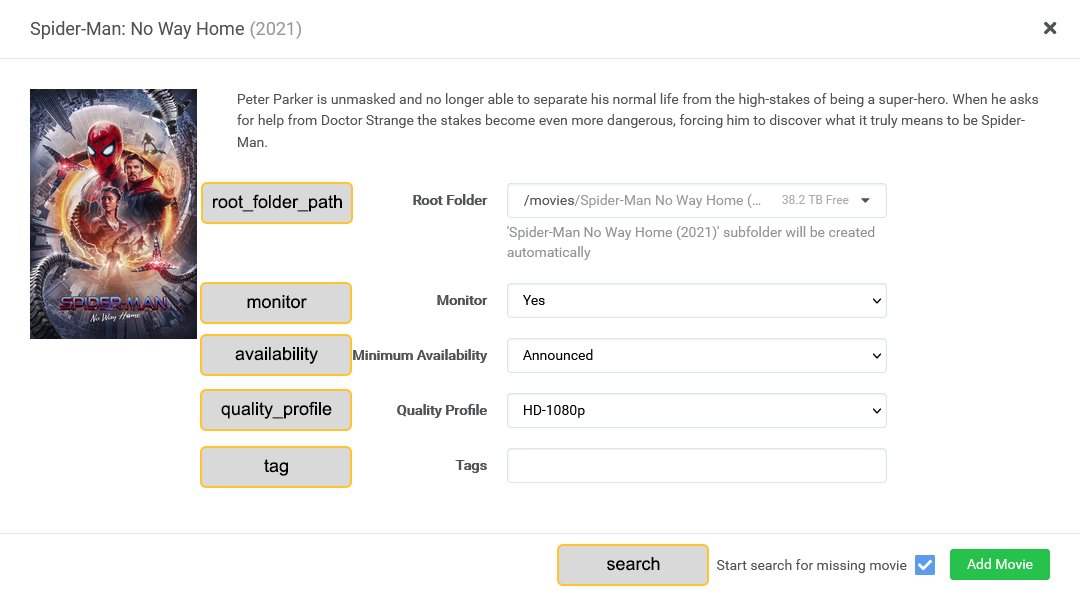
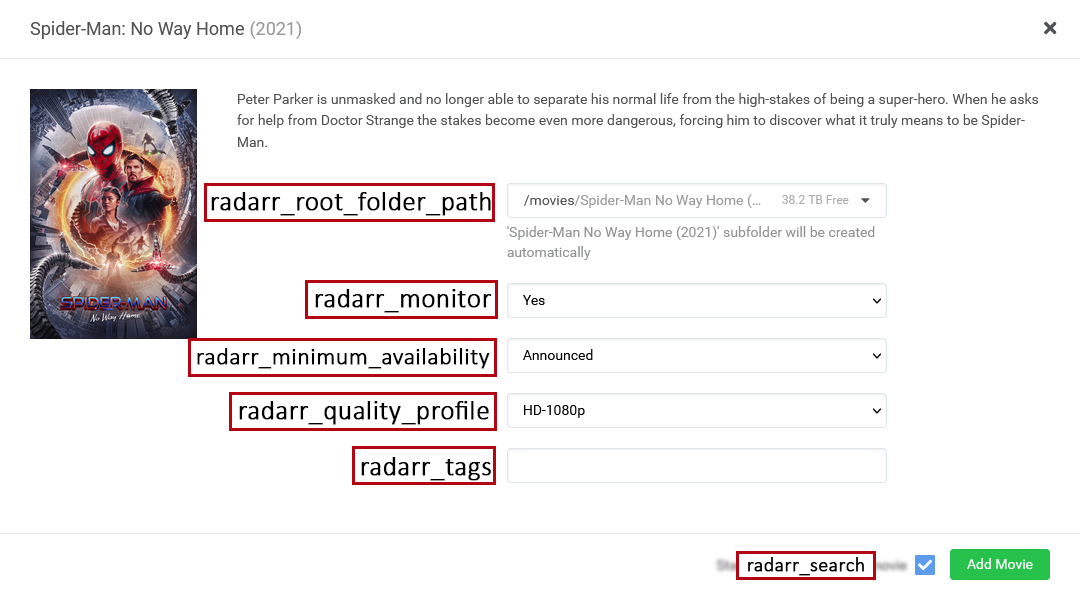
Standardize ARR definition setting names (#3681)

Changed region(s): [[0.1528, 0.4538, 0.4583, 0.8471], [0.4889, 0.9076, 0.8556, 0.9983], [0.1833, 0.3025, 0.4583, 0.3933]]

diff --git a/modules/builder.py b/modules/builder.py
@@ -303,11 +303,15 @@ radarr_details = [
     "radarr_upgrade_existing",
     "radarr_monitor_existing",
     "radarr_folder",
+    "radarr_root_folder_path",
     "radarr_monitor",
     "radarr_search",
     "radarr_availability",
+    "radarr_minimum_availability",
     "radarr_quality",
+    "radarr_quality_profile",
     "radarr_tag",
+    "radarr_tags",
     "item_radarr_tag",
     "radarr_ignore_cache",
 ]
@@ -317,14 +321,20 @@ sonarr_details = [
     "sonarr_upgrade_existing",
     "sonarr_monitor_existing",
     "sonarr_folder",
+    "sonarr_root_folder_path",
     "sonarr_monitor",
     "sonarr_language",
+    "sonarr_language_profile",
     "sonarr_series",
+    "sonarr_series_type",
     "sonarr_quality",
+    "sonarr_quality_profile",
     "sonarr_season",
+    "sonarr_season_folder",
     "sonarr_search",
     "sonarr_cutoff_search",
     "sonarr_tag",
+    "sonarr_tags",
     "item_sonarr_tag",
     "sonarr_ignore_cache",
 ]
@@ -2145,16 +2155,16 @@ class CollectionBuilder:
             "radarr_ignore_cache",
         ]:
             self.radarr_details[method_name[7:]] = util.parse(self.Type, method_name, method_data, datatype="bool")
-        elif method_name == "radarr_folder":
+        elif method_name in ["radarr_folder", "radarr_root_folder_path"]:
             self.radarr_details["folder"] = method_data
-        elif method_name == "radarr_availability":
+        elif method_name in ["radarr_availability", "radarr_minimum_availability"]:
             if str(method_data).lower() in radarr.availability_translation:
                 self.radarr_details["availability"] = str(method_data).lower()
             else:
                 raise BuilderValidationError(f"{self.Type} Error: {method_name} attribute must be either announced, cinemas, released or db")
-        elif method_name == "radarr_quality":
+        elif method_name in ["radarr_quality", "radarr_quality_profile"]:
             self.radarr_details["quality"] = method_data
-        elif method_name == "radarr_tag":
+        elif method_name in ["radarr_tag", "radarr_tags"]:
             self.radarr_details["tag"] = util.get_list(method_data, lower=True)
         elif method_name == "radarr_taglist":
             self.builders.append((method_name, util.get_list(method_data, lower=True, return_none=False)))
@@ -2167,25 +2177,30 @@ class CollectionBuilder:
             "sonarr_add_existing",
             "sonarr_upgrade_existing",
             "sonarr_monitor_existing",
-            "sonarr_season",
             "sonarr_search",
             "sonarr_cutoff_search",
             "sonarr_ignore_cache",
         ]:
             self.sonarr_details[method_name[7:]] = util.parse(self.Type, method_name, method_data, datatype="bool")
-        elif method_name in ["sonarr_folder", "sonarr_quality", "sonarr_language"]:
-            self.sonarr_details[method_name[7:]] = method_data
+        elif method_name in ["sonarr_season", "sonarr_season_folder"]:
+            self.sonarr_details["season"] = method_data
+        elif method_name in ["sonarr_folder", "sonarr_root_folder_path"]:
+            self.sonarr_details["folder"] = method_data
+        elif method_name in ["sonarr_quality", "sonarr_quality_profile"]:
+            self.sonarr_details["quality"] = method_data
+        elif method_name in ["sonarr_language", "sonarr_language_profile"]:
+            self.sonarr_details["language"] = method_data
         elif method_name == "sonarr_monitor":
             if str(method_data).lower() in sonarr.monitor_translation:
                 self.sonarr_details["monitor"] = str(method_data).lower()
             else:
                 raise Failed(f"{self.Type} Error: {method_name} attribute must be either all, future, missing, existing, pilot, first, latest or none")
-        elif method_name == "sonarr_series":
+        elif method_name in ["sonarr_series", "sonarr_series_type"]:
             if str(method_data).lower() in sonarr.series_types:
                 self.sonarr_details["series"] = str(method_data).lower()
             else:
                 raise Failed(f"{self.Type} Error: {method_name} attribute must be either standard, daily, or anime")
-        elif method_name == "sonarr_tag":
+        elif method_name in ["sonarr_tag", "sonarr_tags"]:
             self.sonarr_details["tag"] = util.get_list(method_data, lower=True)
         elif method_name == "sonarr_taglist":
             self.builders.append((method_name, util.get_list(method_data, lower=True, return_none=False)))

diff --git a/docs/files/arr.md b/docs/files/arr.md
@@ -9,10 +9,14 @@ tags:
   - radarr_monitor_existing
   - radarr_ignore_cache
   - radarr_folder
+  - radarr_root_folder_path
   - radarr_monitor
   - radarr_availability
+  - radarr_minimum_availability
   - radarr_quality
+  - radarr_quality_profile
   - radarr_tag
+  - radarr_tags
   - radarr_search
   - item_radarr_tag
   - item_radarr_tag.remove
@@ -23,12 +27,18 @@ tags:
   - sonarr_monitor_existing
   - sonarr_ignore_cache
   - sonarr_folder
+  - sonarr_root_folder_path
   - sonarr_monitor
   - sonarr_quality
+  - sonarr_quality_profile
   - sonarr_language
+  - sonarr_language_profile
   - sonarr_series
+  - sonarr_series_type
   - sonarr_season
+  - sonarr_season_folder
   - sonarr_tag
+  - sonarr_tags
   - sonarr_search
   - sonarr_cutoff_search
   - item_sonarr_tag
@@ -48,11 +58,11 @@ All the following attributes can override the global/library [Radarr](../config/
 | `radarr_upgrade_existing` | **Description:** Override Radarr `upgrade_existing` attribute<br>**Values:** `true` or `false`                                                                                                                                                                    |
 | `radarr_monitor_existing` | **Description:** Override Radarr `monitor_existing` attribute<br>**Values:** `true` or `false`                                                                                                                                                                    |
 | `radarr_ignore_cache`     | **Description:** Override Radarr `ignore_cache` attribute<br>**Values:** `true` or `false`                                                                                                                                                                        |
-| `radarr_folder`           | **Description:** Override Radarr `root_folder_path` attribute<br>**Values:** Folder Path                                                                                                                                                                          |
+| `radarr_root_folder_path` | **Description:** Override Radarr `root_folder_path` attribute<br>**Values:** Folder Path                                                                                                                                                                          |
 | `radarr_monitor`          | **Description:** Override Radarr `monitor` attribute<br>**Values:** `true` or `false`                                                                                                                                                                             |
-| `radarr_availability`     | **Description:** Override Radarr `availability` attribute<br>**Values:** `announced`, `cinemas`, `released`, `db`                                                                                                                                                 |
-| `radarr_quality`          | **Description:** Override Radarr `quality_profile` attribute<br>**Values:** Radarr Quality Profile                                                                                                                                                                |
-| `radarr_tag`              | **Description:** Override Radarr `tag` attribute<br>**Values:** List :material-information-outline:{ data-tooltip data-tooltip-id="tippy-yaml-lists" } or comma-separated string of tags                                                                          |
+| `radarr_minimum_availability` | **Description:** Override Radarr `availability` attribute<br>**Values:** `announced`, `cinemas`, `released`, `db`                                                                                                                                             |
+| `radarr_quality_profile`  | **Description:** Override Radarr `quality_profile` attribute<br>**Values:** Radarr Quality Profile                                                                                                                                                                |
+| `radarr_tags`             | **Description:** Override Radarr `tag` attribute<br>**Values:** List :material-information-outline:{ data-tooltip data-tooltip-id="tippy-yaml-lists" } or comma-separated string of tags                                                                          |
 | `radarr_search`           | **Description:** Override Radarr `search` attribute<br>**Values:** `true` or `false`                                                                                                                                                                              |
 | `item_radarr_tag`         | **Description:** Used to append a tag in Radarr for every movie found by the builders that's in Radarr<br>**Values:** List :material-information-outline:{ data-tooltip data-tooltip-id="tippy-yaml-lists" } or comma-separated string of tags                    |
 | `item_radarr_tag.remove`  | **Description:** Used to remove existing tags in Radarr for every movie found by the builders that's in Radarr<br>**Values:** List :material-information-outline:{ data-tooltip data-tooltip-id="tippy-yaml-lists" } or comma-separated string of tags            |
@@ -69,13 +79,13 @@ All the following attributes can override the global/library [Sonarr](../config/
 | `sonarr_upgrade_existing` | **Description:** Override Sonarr `upgrade_existing` attribute<br>**Values:** `true` or `false`                                                                                                                                                                     |
 | `sonarr_monitor_existing` | **Description:** Override Sonarr `monitor_existing` attribute<br>**Values:** `true` or `false`                                                                                                                                                                     |
 | `sonarr_ignore_cache`     | **Description:** Override Sonarr `ignore_cache` attribute<br>**Values:** `true` or `false`                                                                                                                                                                         |
-| `sonarr_folder`           | **Description:** Override Sonarr `root_folder_path` attribute<br>**Values:** Folder Path                                                                                                                                                                           |
+| `sonarr_root_folder_path` | **Description:** Override Sonarr `root_folder_path` attribute<br>**Values:** Folder Path                                                                                                                                                                           |
 | `sonarr_monitor`          | **Description:** Override Sonarr `monitor` attribute<br>**Values:** `all`, `future`, `missing`, `existing`, `pilot`, `first`, `latest`, `none`                                                                                                                     |
-| `sonarr_quality`          | **Description:** Override Sonarr `quality_profile` attribute<br>**Values:** Sonarr Quality Profile                                                                                                                                                                 |
-| `sonarr_language`         | **Description:** Override Sonarr `language_profile` attribute<br>**Values:** Sonarr Language Profile                                                                                                                                                               |
-| `sonarr_series`           | **Description:** Override Sonarr `series_type` attribute<br>**Values:** `standard`, `daily`, `anime`                                                                                                                                                               |
-| `sonarr_season`           | **Description:** Override Sonarr `season_folder` attribute<br>**Values:** `true` or `false`                                                                                                                                                                        |
-| `sonarr_tag`              | **Description:** Override Sonarr `tag` attribute<br>**Values:** List :material-information-outline:{ data-tooltip data-tooltip-id="tippy-yaml-lists" } or comma-separated string of tags                                                                           |
+| `sonarr_quality_profile`  | **Description:** Override Sonarr `quality_profile` attribute<br>**Values:** Sonarr Quality Profile                                                                                                                                                                 |
+| `sonarr_language_profile` | **Description:** Override Sonarr `language_profile` attribute<br>**Values:** Sonarr Language Profile                                                                                                                                                               |
+| `sonarr_series_type`      | **Description:** Override Sonarr `series_type` attribute<br>**Values:** `standard`, `daily`, `anime`                                                                                                                                                               |
+| `sonarr_season_folder`    | **Description:** Override Sonarr `season_folder` attribute<br>**Values:** `true` or `false`                                                                                                                                                                        |
+| `sonarr_tags`             | **Description:** Override Sonarr `tag` attribute<br>**Values:** List :material-information-outline:{ data-tooltip data-tooltip-id="tippy-yaml-lists" } or comma-separated string of tags                                                                           |
 | `sonarr_search`           | **Description:** Override Sonarr `search` attribute<br>**Values:** `true` or `false`                                                                                                                                                                               |
 | `sonarr_cutoff_search`    | **Description:** Override Sonarr `cutoff_search` attribute<br>**Values:** `true` or `false`                                                                                                                                                                        |
 | `item_sonarr_tag`         | **Description:** Used to append a tag in Sonarr for every series found by the builders that's in Sonarr<br>**Values:** List :material-information-outline:{ data-tooltip data-tooltip-id="tippy-yaml-lists" } or comma-separated string of tags                    |
@@ -100,14 +110,14 @@ If your Radarr/Sonarr has different file system mappings from your Plex use `rad
 
 ### Radarr Add Settings
 
-When adding a movie in Radarr you get the screen below to set these options use `radarr_folder`, `radarr_monitor`,`radarr_availability`, `radarr_quality`, `radarr_tag`, and `radarr_search`.
+When adding a movie in Radarr you get the screen below to set these options use `radarr_root_folder_path`, `radarr_monitor`, `radarr_minimum_availability`, `radarr_quality_profile`, `radarr_tags`, and `radarr_search`.
 
 ![Radarr Details](../assets/images/files/radarr-settings.png)
 
 ### Sonarr Add Settings
 
-When adding a show in Sonarr you get the screen below to set these options use `sonarr_folder`, `sonarr_monitor`, `sonarr_quality`, `sonarr_language`, `sonarr_series`, 
-`sonarr_season`, `sonarr_tag`, `sonarr_search`, and `sonarr_cutoff_search`.
+When adding a show in Sonarr you get the screen below to set these options use `sonarr_root_folder_path`, `sonarr_monitor`, `sonarr_quality_profile`, `sonarr_language_profile`, `sonarr_series_type`,
+`sonarr_season_folder`, `sonarr_tags`, `sonarr_search`, and `sonarr_cutoff_search`.
 
 ![Sonarr Details](../assets/images/files/sonarr-settings.png)
 

diff --git a/CHANGELOG.md b/CHANGELOG.md
@@ -9,6 +9,7 @@ and this project adheres to [Semantic Versioning](https://semver.org/spec/v2.0.0
 
 ### Changed
 
+- Standardize collection-level Radarr and Sonarr definition setting names: `radarr_root_folder_path`, `radarr_minimum_availability`, `radarr_quality_profile`, `radarr_tags`, `sonarr_root_folder_path`, `sonarr_quality_profile`, `sonarr_language_profile`, `sonarr_series_type`, `sonarr_season_folder`, and `sonarr_tags` are now the preferred keys; the previous names remain supported as aliases.
 - Upgrade SIMKL authentication to AUTH V2 with access-token validation, refresh-on-failure, and an optional `force_refresh` setting.
 - Default `settings.threading.workers` to 4 (was effectively single-threaded) and `settings.threading.prefetch_collection_children` to `true`, deferring a collection's `sync_collection` "what to remove" lookup and PMS's comma-separated `/library/metadata/{ids}` batch-read to the shared thread pool instead of blocking the main collection loop; the cache is now RLock-guarded (`_LockedConnection`) so concurrent worker threads can share one SQLite connection safely.
 - Consolidate end-of-run log-summary routing and repeated high-volume item warnings, including metadata entries skipped because their titles were not found.
